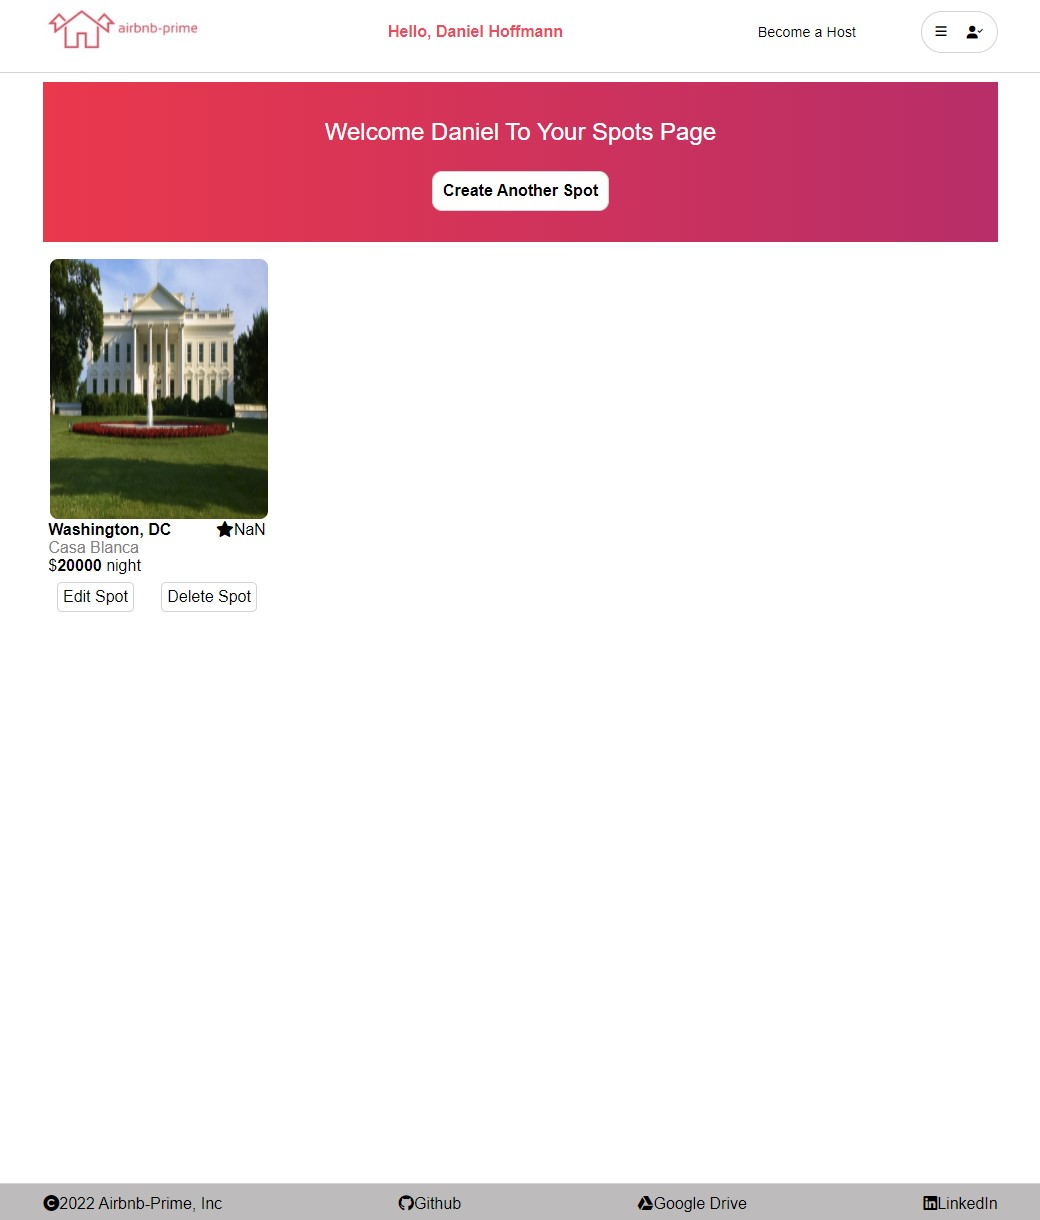
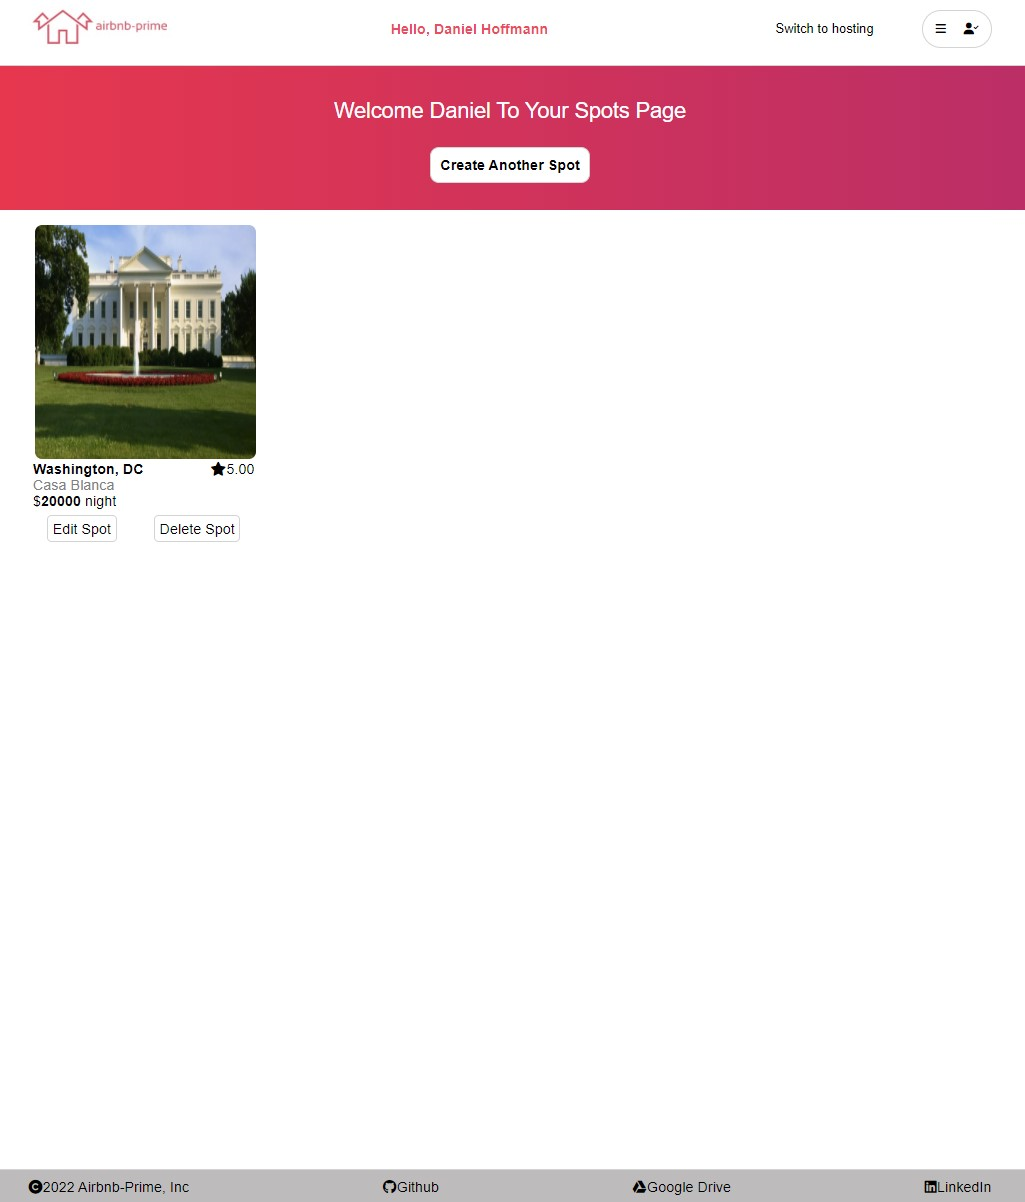
updates images

diff --git a/frontend/src/components/AllSpots/CurrentUserSpots.js b/frontend/src/components/AllSpots/CurrentUserSpots.js
@@ -71,7 +71,9 @@ function CurrentUserSpots() {
                         </div>
                         <div className='allspots-city-state-ratings'>
                           <div style={{fontWeight: '600'}}>{spot.city}, {spot.state}</div>
-                          <div><i class="fa-solid fa-star" />{Number.parseFloat(spot.avgRating).toFixed(2)}</div>
+                          {isNaN(Number.parseFloat(spot.avgRating).toFixed(2)) && <div><i class="fa-solid fa-star" /></div>}
+                          {!isNaN(Number.parseFloat(spot.avgRating).toFixed(2)) && <div><i class="fa-solid fa-star" />{Number.parseFloat(spot.avgRating).toFixed(2)}</div>}
+                          {/* <div><i class="fa-solid fa-star" />{Number.parseFloat(spot.avgRating).toFixed(2)}</div> */}
                         </div>
                         <div className='allspots-name'>{spot.name}</div>
                         <div>$<span style={{'fontWeight':'600'}}>{spot.price} </span>night</div>
